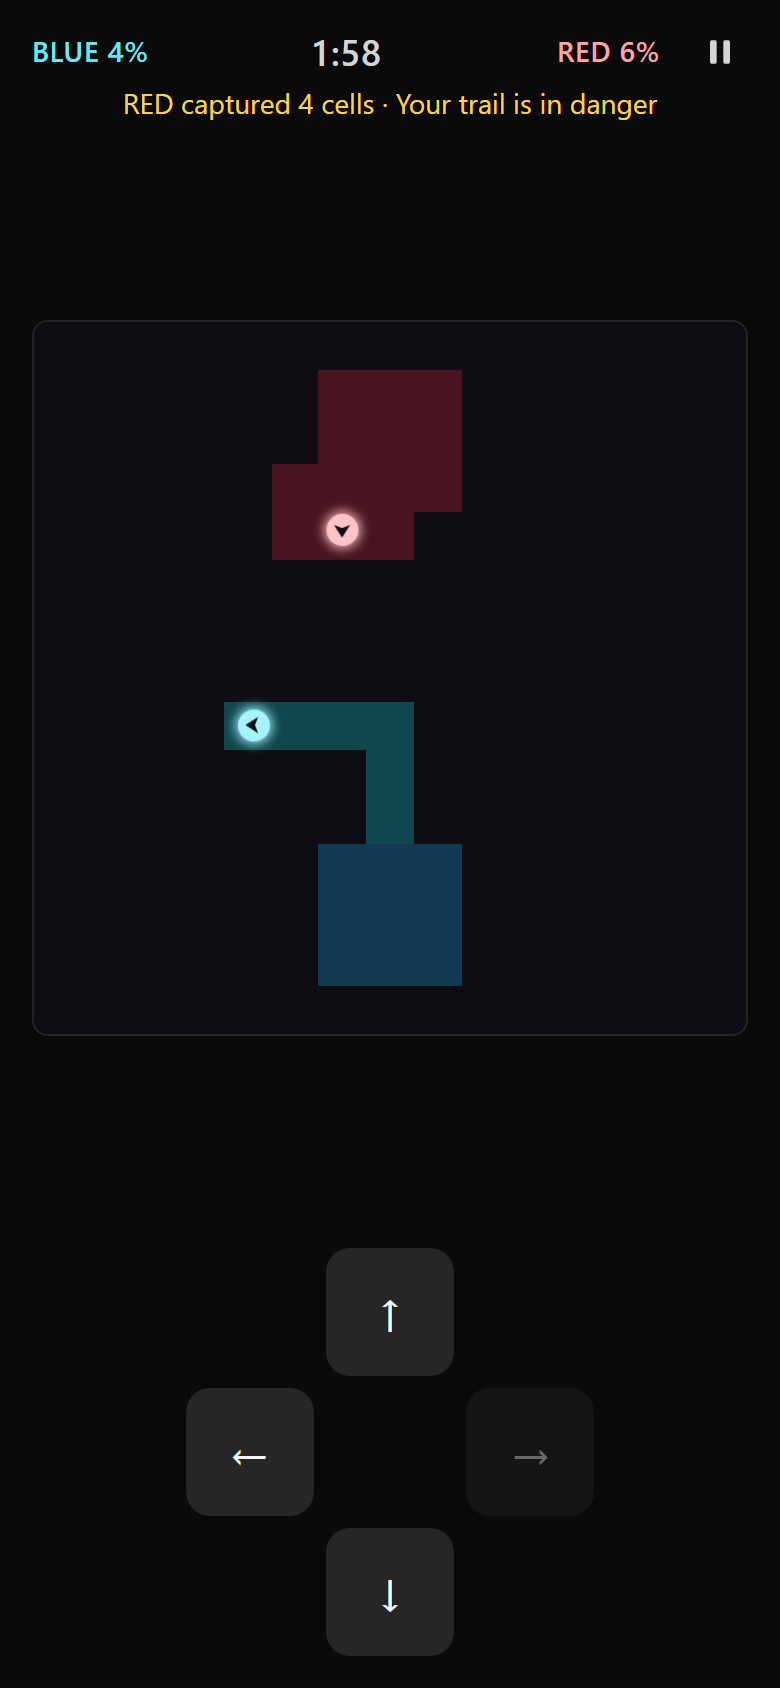
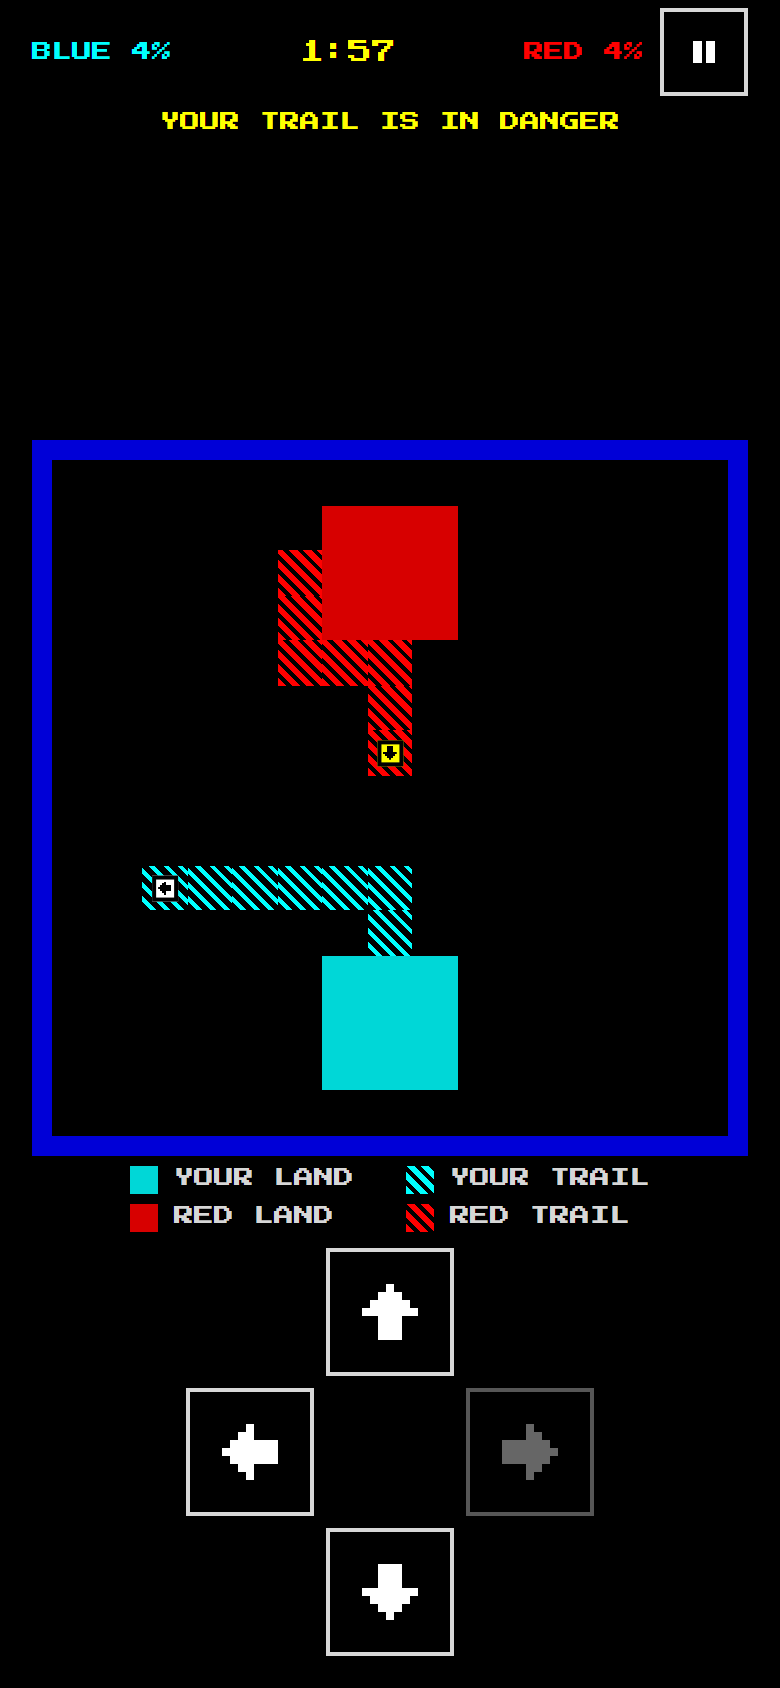
Keep the legend next to the board; refresh screenshots and README
On tall phones the board now sits at the bottom of its slot so the
legend stays directly under it. Screenshots at 375x667 and 390x844 show
the 8-bit theme; the README gets one line about the style.

diff --git a/src/ui/GameScreen.tsx b/src/ui/GameScreen.tsx
@@ -315,7 +315,7 @@ function Match({ settings, onMenu, onRestart }: MatchProps) {
           </div>
         </header>
 
-        <div className="board-slot flex min-h-0 flex-1 items-center justify-center py-1">
+        <div className="board-slot flex min-h-0 flex-1 items-end justify-center py-1">
           <Board
             state={state}
             flash={flash}

diff --git a/README.md b/README.md
@@ -2,6 +2,8 @@
 
 A real-time territory duel for the mobile browser. You and the computer each steer a snake on a 15×15 grid: leave your territory to draw a trail, come back to close the loop and capture everything inside, and cut the opponent's trail before they cut yours. The snakes move on their own, one cell per tick and at the same time; you only steer. A match lasts two minutes.
 
+The look is 8-bit: a black screen, a blue board frame, solid land and hatched trails, a pixel font for labels and blinking, step-by-step effects (all off with reduced motion).
+
 Built as a portfolio project and a game-design experiment: the rules are specified up front, the engine is pure and tested, and the bot is explainable.
 
 ## Play
